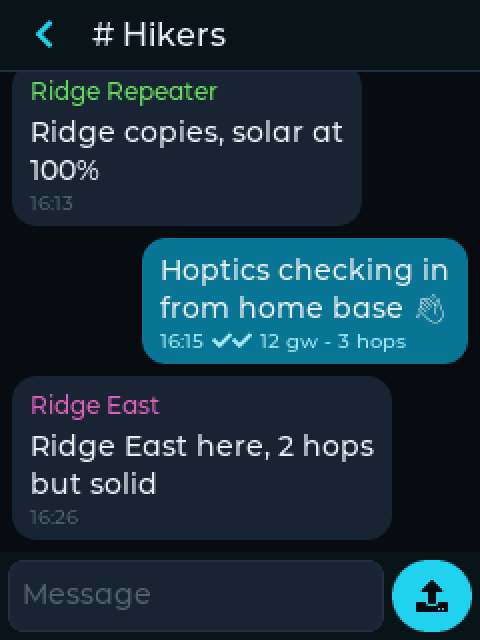
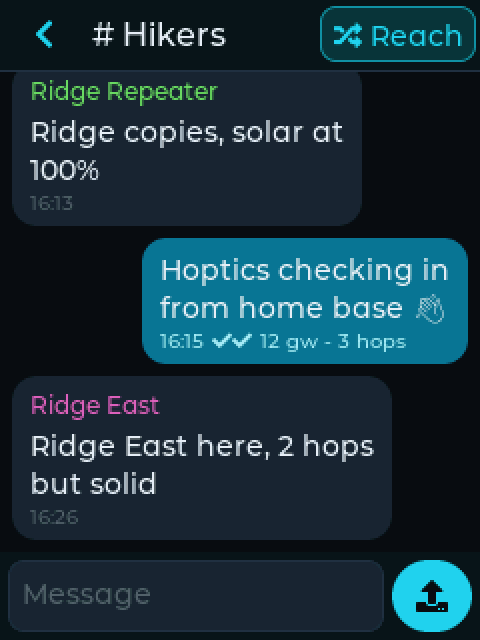
Reach check: Reach button in the chat header
Opens the reach of your latest message in that conversation, so the
feature is easy to find and works without tapping a bubble (keyboard and
trackball boards). Shorter MQTT server label for the landscape screens.

Claude-Session: https://claude.ai/code/session_01EbiWZHnZAP1PkLaBKHE2gk

Changed region(s): [[0.6562, 0.0, 1.0, 0.0938]]

diff --git a/README.md b/README.md
@@ -48,8 +48,9 @@ is upstream Meshtastic 2.8.3, unchanged.
   for new messages. With MQTT set up, your own messages also show their **reach** (below).
 - **Reach check** (how far did my message get?): when the radio is on Wi-Fi and receiving your MQTT
   server's traffic, every gateway that hears one of your messages and uploads it sends a copy back.
-  Hoptics counts those copies: your message bubble shows `12 gw - 3 hops`, and tapping it shows how
-  many gateways heard it **directly, 1 hop, 2 hops...** out. It's deliberately light: only messages
+  Hoptics counts those copies: your message bubble shows `12 gw - 3 hops`, and tapping it (or **Reach**
+  at the top of the chat, for your latest message) shows how many gateways heard it **directly, 1 hop,
+  2 hops...** out. It's deliberately light: only messages
   sent from this screen are tracked, and the check costs one compare per MQTT packet. The **V4** keeps
   counts for its last 6 messages; the **V4-R8** (and the T-Deck Plus and ThinkNode M9 builds) keep the
   last 24 and also list **which gateways** heard each one. The web page has the full **Reach logger**.
